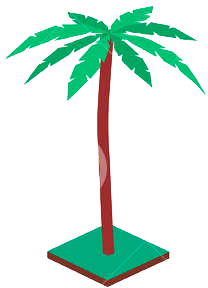
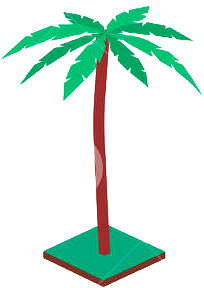
drippity dripp

diff --git a/pages/index.js b/pages/index.js
@@ -5,13 +5,13 @@ import cn from 'classnames'
 import React, { useState, useEffect, useRef } from 'react'
 import anime from 'animejs';
 import useVisibility from 'lib/hooks/useVisibility'
-
+import {useWindowSize} from "rooks"
 
 export default function Home() {
 
   const batikRef = useRef()
-  const treeHeight = 120;
-  const padding = 20;
+  const treeHeight = 170;
+  const padding = 10;
   
   const [loaded, setLoaded] = useState(0)
   const [showMenu, setShowMenu] = useState(false)
@@ -21,6 +21,7 @@ export default function Home() {
   const [showBounds, setShowBounds] = useState(false)
   const [positions, setPositions] = useState()
   const [scrollRef, {scroll, scrollStep, scrollStepRatio, totalSteps}] = useVisibility('scroller', 0, 4)
+  const { innerWidth } = useWindowSize();
 
   let menuAnimation;
 
@@ -45,10 +46,13 @@ export default function Home() {
   const randomInt= (min, max) => { // min and max included 
     return Math.floor(Math.random() * (max - min + 1) + min)
   }
-  
+  const dripIt = () => {
+    window.scroll(0,0); 
+    toMap();
+  }
   const toMap = (page) => {
     
-    setPage(page)
+    
     
     const bounds = getBounds()
     const targets = document.querySelectorAll(`.${styles.tree}`)
@@ -82,22 +86,25 @@ export default function Home() {
     
     anime.timeline({
       targets,
-      delay: function(el, i) { return i * 70 },
+      delay: (el, i) => i * 70,
       easing: 'spring(0.4, 100, 10, 0)',
       loop: false,
     })
     .add({translateY: 0})
     setShowMenu(false)
     setPositions(pos)
+    setPage(page)
   }
+
   const toMenu = () => {
     if(showMenu) return toMapFromMenu()
     const menuTreeHeight = treeHeight/2;
+    const maxTreeWidth = trees.sort((a,b) => a.ref.current.clientWidth < b.ref.current.clientWidth)[0].ref.current.clientWidth
     
     anime({
       targets: `.${styles.tree}`,
-      left:padding,
-      height:menuTreeHeight,
+      left: (el, i) => ((maxTreeWidth - el.clientWidth)/2)+padding,
+      height: menuTreeHeight,
       top: anime.stagger([padding, trees.length*((menuTreeHeight)+padding)]),
       delay: (el, i) => i * 20,
       duration: 500,
@@ -117,7 +124,6 @@ export default function Home() {
   }
   const toMapFromMenu = () => {
     const menuTreeHeight = treeHeight/2;
-
     anime.set({
       targets: `.${styles.label}`,
       width:0,
@@ -161,12 +167,16 @@ export default function Home() {
     setBounds(getBounds())
     toMap(1)
   }, [loaded])
+  useEffect(()=> {
+    dripIt()
+    setBounds(getBounds())
+  }, [innerWidth])
 
   return (
     <div className={styles.container}>
       <div className={styles.scroller} ref={scrollRef}></div>
       <div className={styles.menu}>
-        <button onClick={()=>{ window.scroll(0,0); toMap()}}>dripp</button>
+        <button onClick={dripIt}>dripp</button>
         <button onClick={toMenu}>menu</button>
         <button onClick={()=> setShowBounds(!showBounds)}>bounds</button>
       </div>

diff --git a/styles/Home.module.scss b/styles/Home.module.scss
@@ -2,7 +2,7 @@
   display: flex;
   align-items: flex-start;
   height: 100vh;
-  width: 100vw;
+  width: 100%;
   min-height: 400vh;
   padding: 0;
   flex-direction: row;
